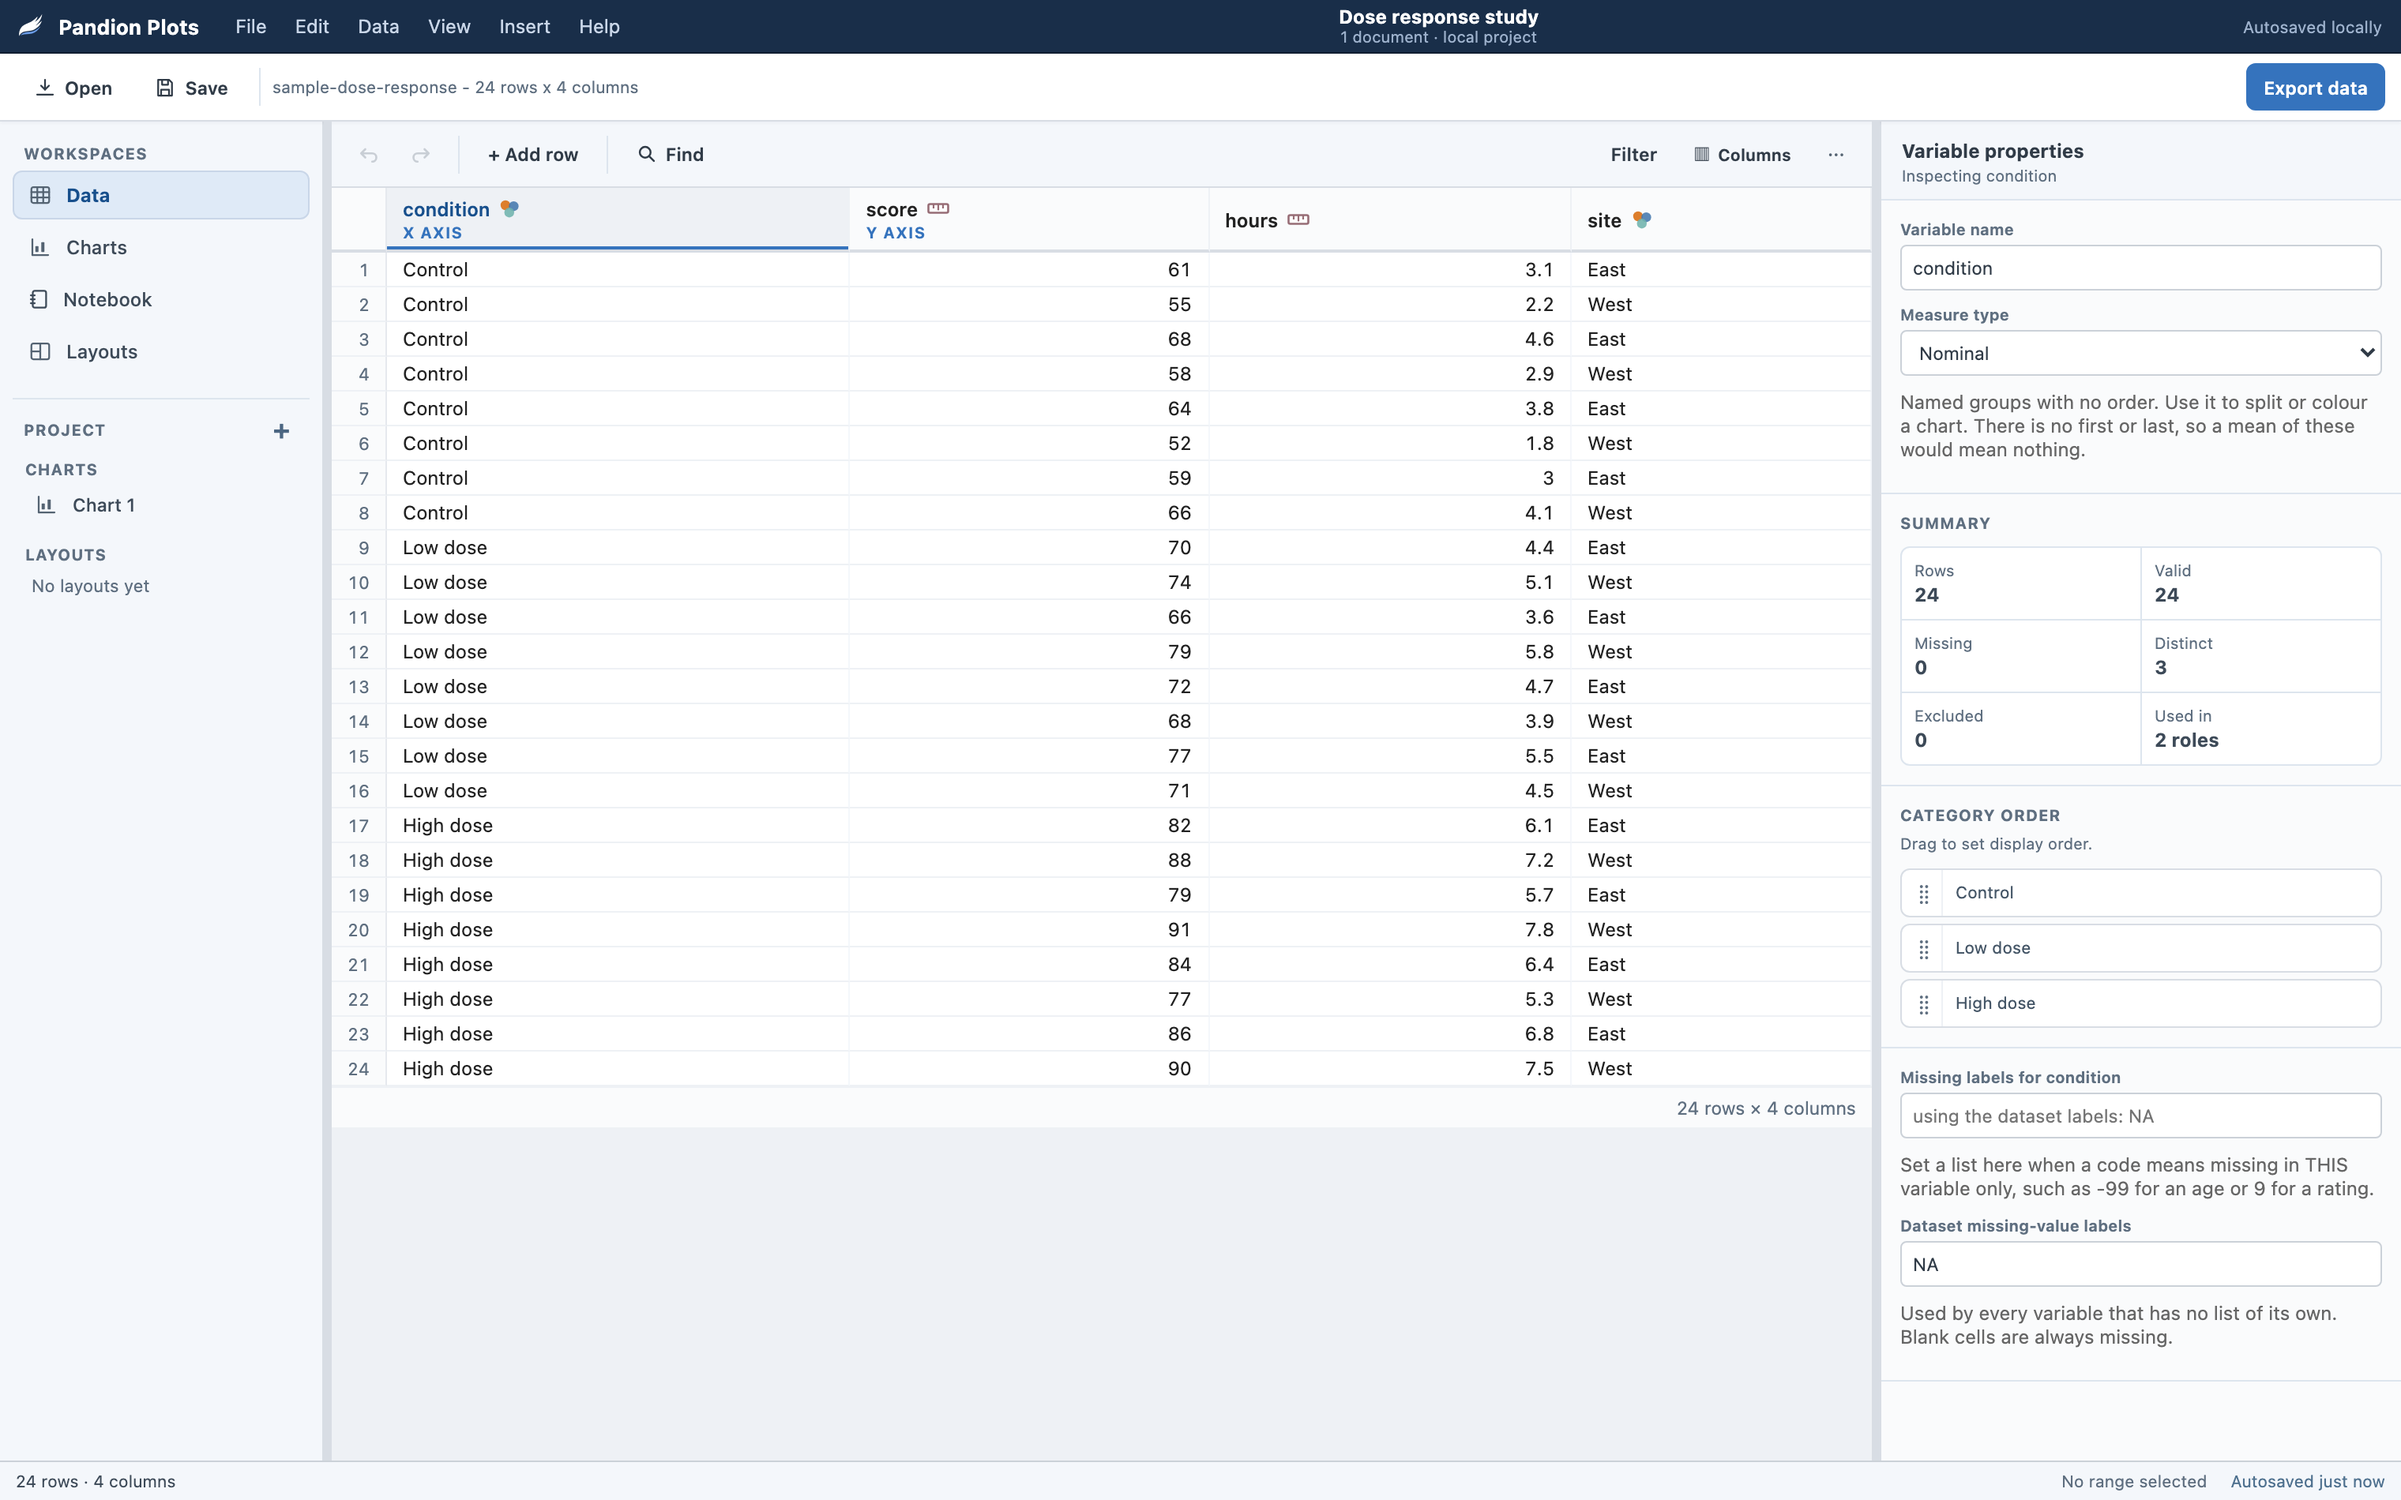
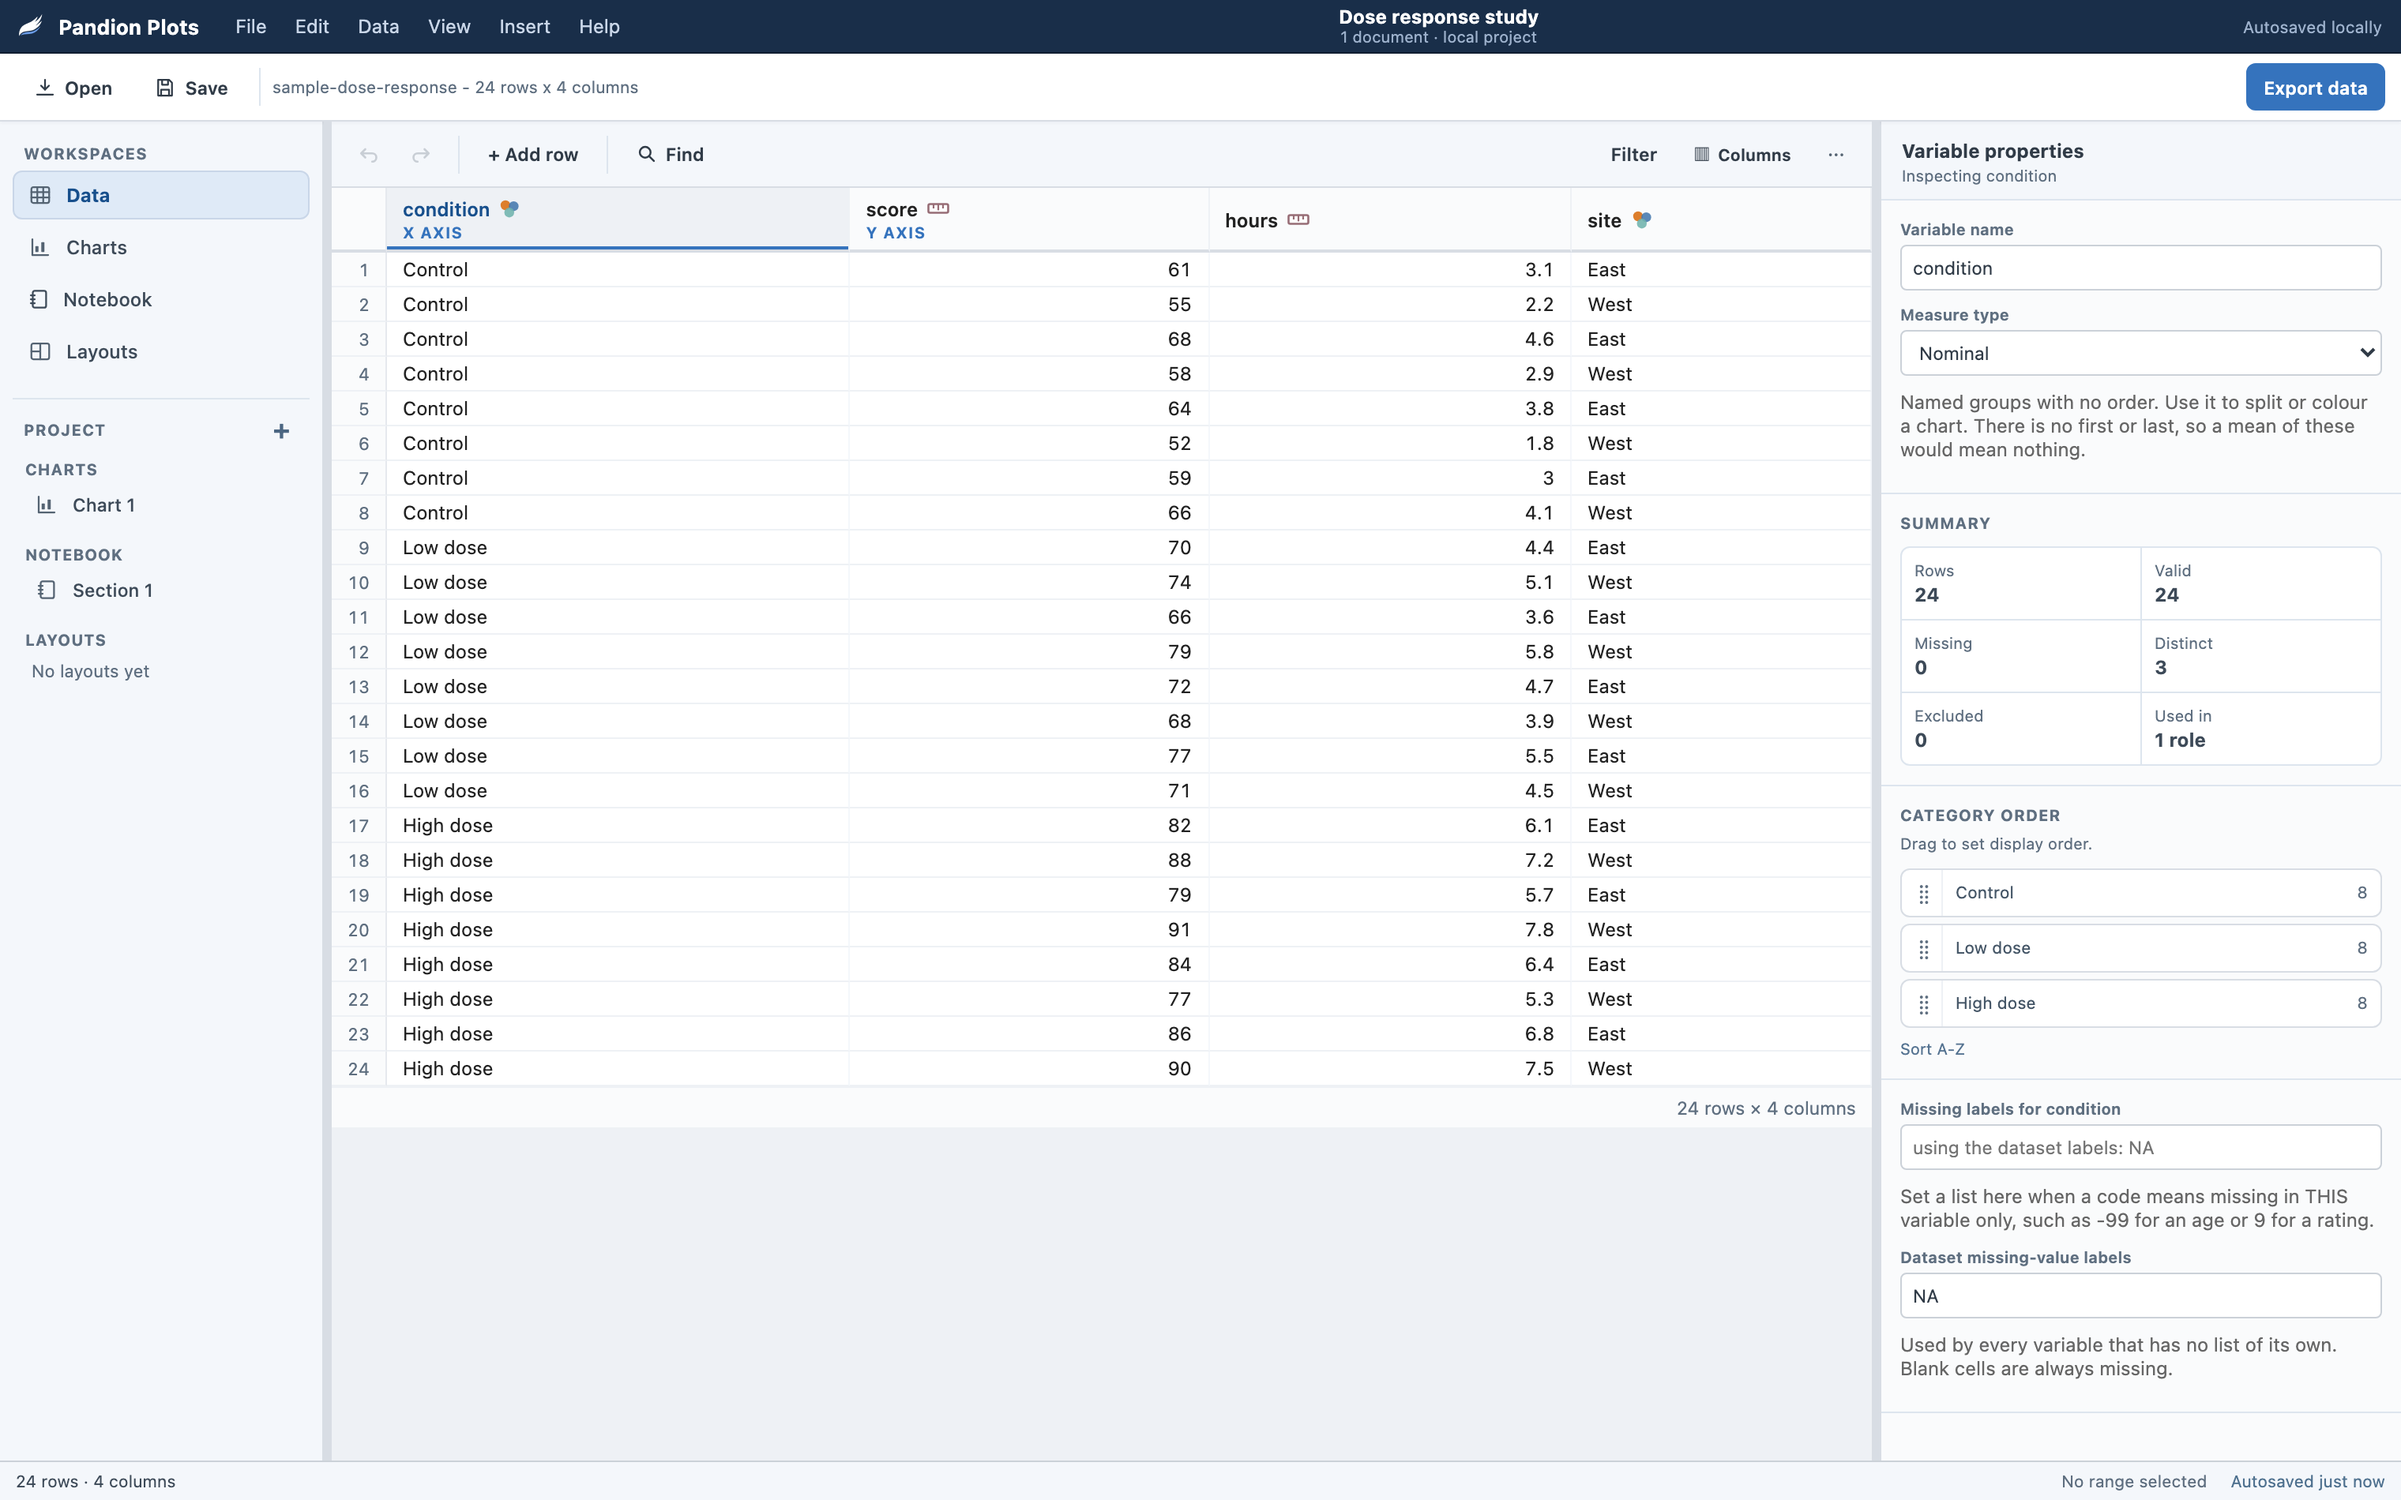
Website: refresh the product shots and correct three stale facts
The four homepage screenshots were a week old and every one showed UI that
has since been redesigned: a left rail with no Notebook section, an
icon-only chart toolbar with no zoom control, "Choose a variable" drop cards
badged Optional, a category list with no counts or sort link, a text-only
layout toolbar with no unit toggle, and a kept-page card missing its Title
field and Export action. Regenerated with website/shots.mjs, which is what
it is for. The prose around them was checked and is still accurate, so none
of it changed.

The portable download card said "about 3.9 MB" for a file that is now 4.5.
That number went stale silently once, so build.sh now checks it the way it
already checks the version.

The gallery's scatter figure was titled "Scatter with marginals" and its
caption promised "marginal distributions for both variables", but the image
has neither. The image is otherwise good and the rest of the caption
describes it accurately, so only the title and that one sentence changed.
Marginals are still shown on the site: the new hero shot has them.

The Ko-fi symbol added earlier was missing data-image-kind, which every
other image on the site carries and verify-image-alternatives.mjs requires.
It is decorative.

Changed region(s): [[0.7812, 0.7142, 1.0, 0.9316], [0.0, 0.3726, 0.0625, 0.4037], [0.0312, 0.4347, 0.0625, 0.4658]]

diff --git a/website/index.html b/website/index.html
@@ -375,7 +375,7 @@
           alt="Diverging stacked Likert chart of five survey items"></a>
         <a href="gallery.html"><img src="assets/gallery/scatter-marginals.png"
           data-image-kind="illustrative"
-          alt="Scatter chart with marginal histograms"></a>
+          alt="Scatter chart of two numeric variables, colored by group"></a>
       </div>
       <p class="tease-more"><a href="gallery.html">Browse the full gallery</a></p>
     </div>
@@ -541,7 +541,7 @@
              offline. No installation is required.</p>
           <a class="btn btn-secondary"
              href="pandion-plots.html" download="pandion-plots.html">Download HTML app</a>
-          <div class="fine">One file, about 3.9 MB</div>
+          <div class="fine">One file, about 4.5 MB</div>
         </div>
         <div class="card">
           <div class="card-icon" aria-hidden="true">

diff --git a/website/gallery.html b/website/gallery.html
@@ -201,12 +201,11 @@
         data-image-kind="data-bearing"
         aria-describedby="gallery-scatter-desc"
         alt="Scatterplot of stress and cortisol for adolescent and adult age groups"></div>
-      <figcaption id="gallery-scatter-desc"><b>Scatter with marginals</b>
+      <figcaption id="gallery-scatter-desc"><b>Scatter by group</b>
         Cortisol generally increases as stress increases. Adult
         observations tend to occupy the higher cortisol range, while
         adolescent observations cluster more heavily around cortisol
-        values from the mid-30s to mid-60s. The grouped points are
-        accompanied by marginal distributions for both variables.</figcaption>
+        values from the mid-30s to mid-60s.</figcaption>
     </figure>
     <figure class="g">
       <div class="g-frame"><img src="assets/gallery/corr-matrix.png"

diff --git a/website/support.html b/website/support.html
@@ -292,7 +292,7 @@
       </div>
 
       <aside class="kofi-card">
-        <h2>Support on Ko-fi<a class="kofi-mark" href="https://ko-fi.com/pandionplots" aria-hidden="true" tabindex="-1"><img src="assets/kofi-symbol.svg" alt="" width="30" height="24"></a></h2>
+        <h2>Support on Ko-fi<a class="kofi-mark" href="https://ko-fi.com/pandionplots" aria-hidden="true" tabindex="-1"><img src="assets/kofi-symbol.svg" alt="" data-image-kind="decorative" width="30" height="24"></a></h2>
         <p>
           Ko-fi is a simple way to send something if you want to. If you
           cannot, or would rather not, sharing Pandion with a friend or
